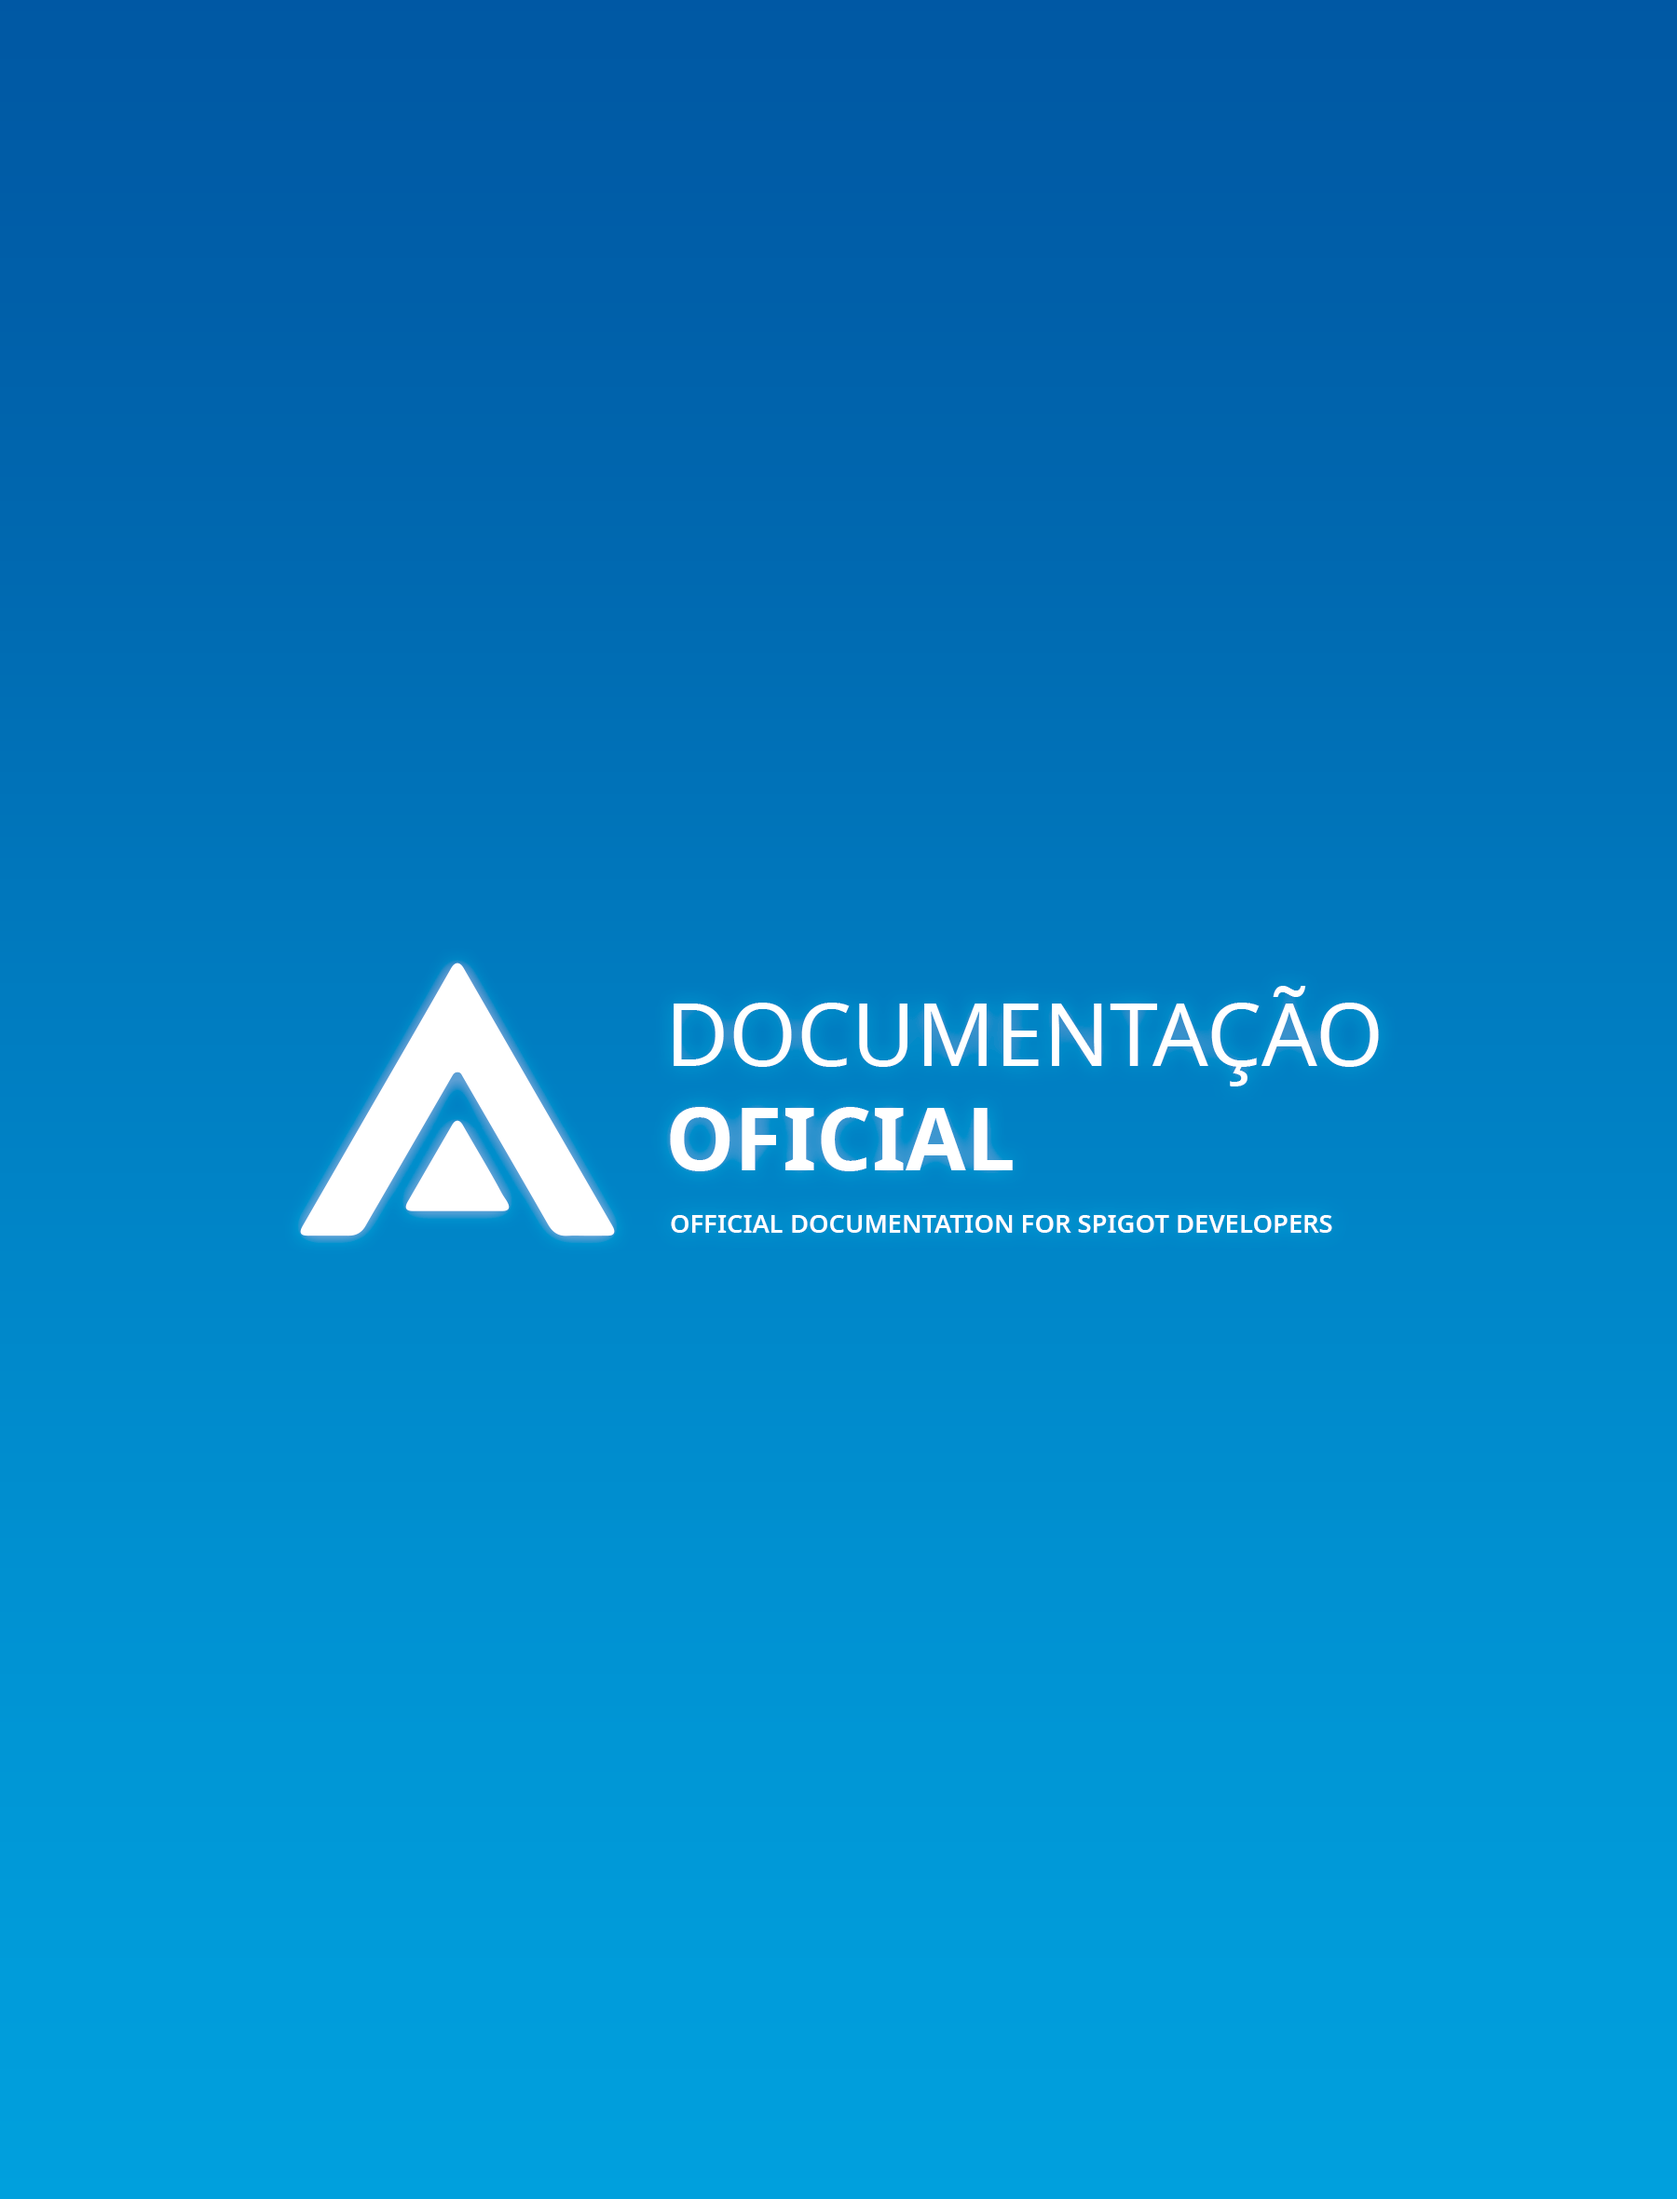
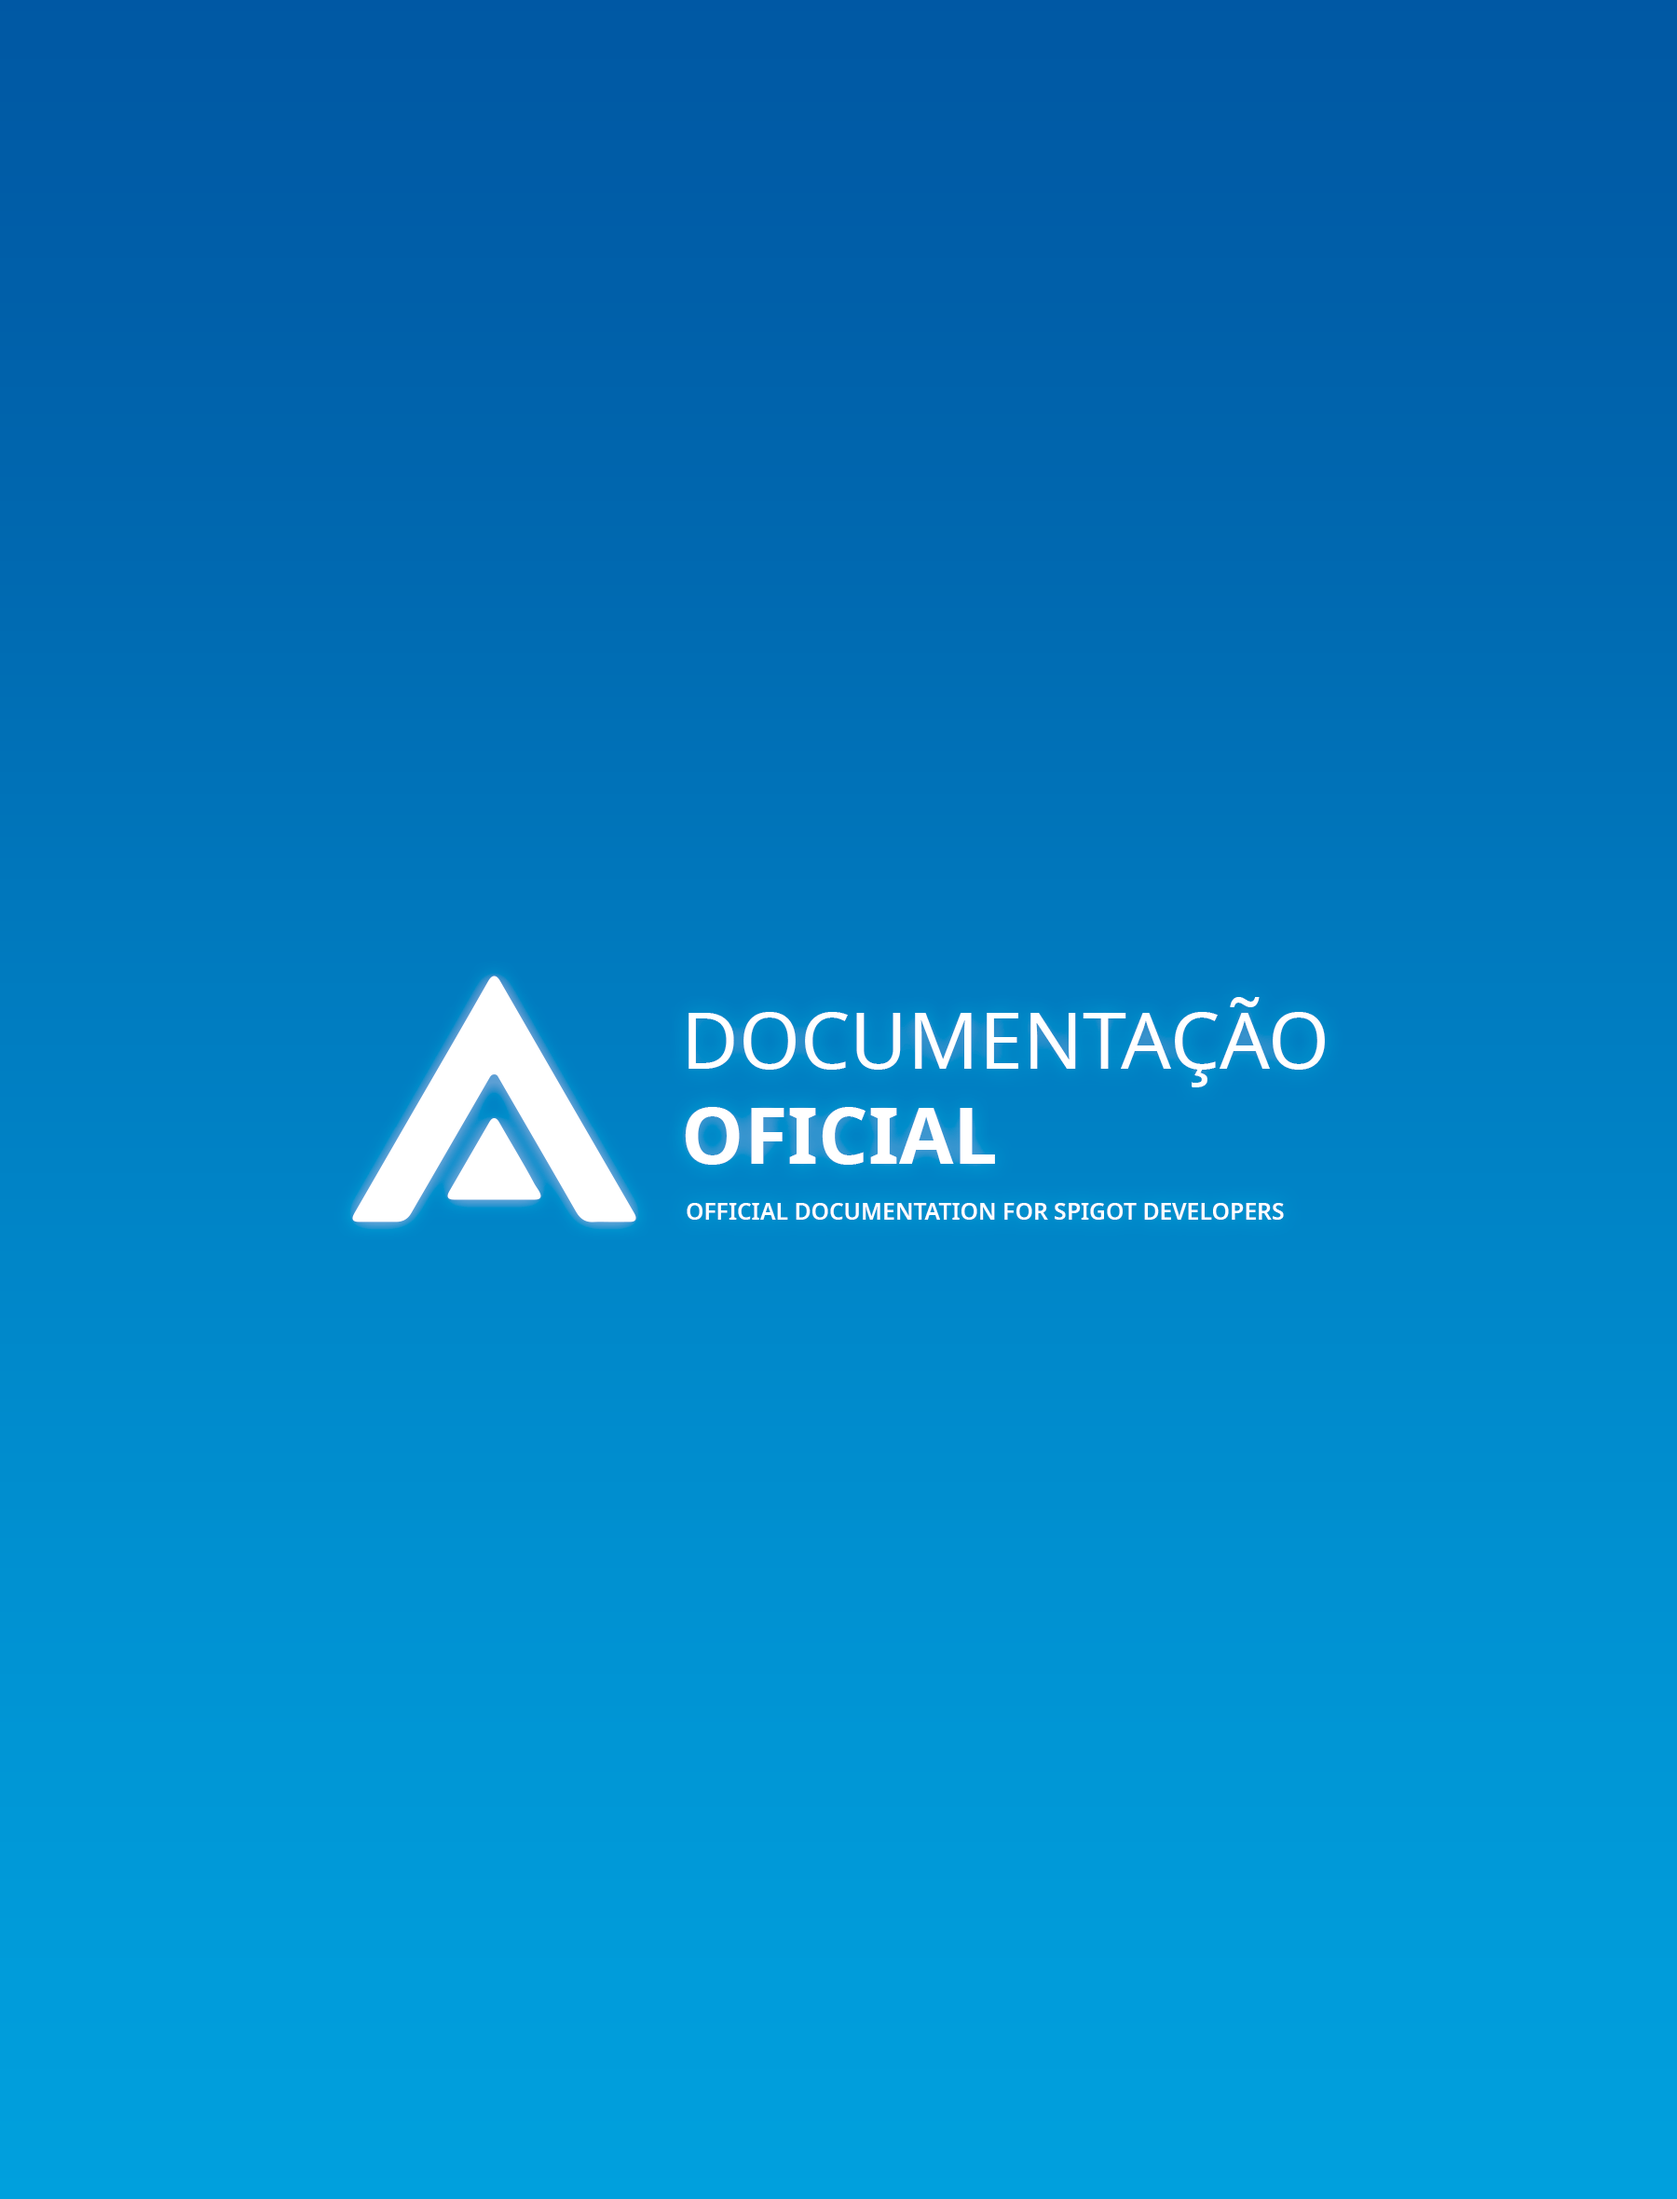
GITBOOK-39: No subject

Changed region(s): [[0.1867, 0.4331, 0.84, 0.5877]]

diff --git a/README.md b/README.md
@@ -3,7 +3,7 @@ description: >-
   👋🏻 Olá, seja bem vindo a documentação oficial da Atlas Plugins. Aqui você
   poderá encontrar como utilizar nossas APIs de nossos plugins e outras
   informações.
-cover: .gitbook/assets/capa-v2.png
+cover: .gitbook/assets/capa-v2 (1).png
 coverY: 0
 ---
 
